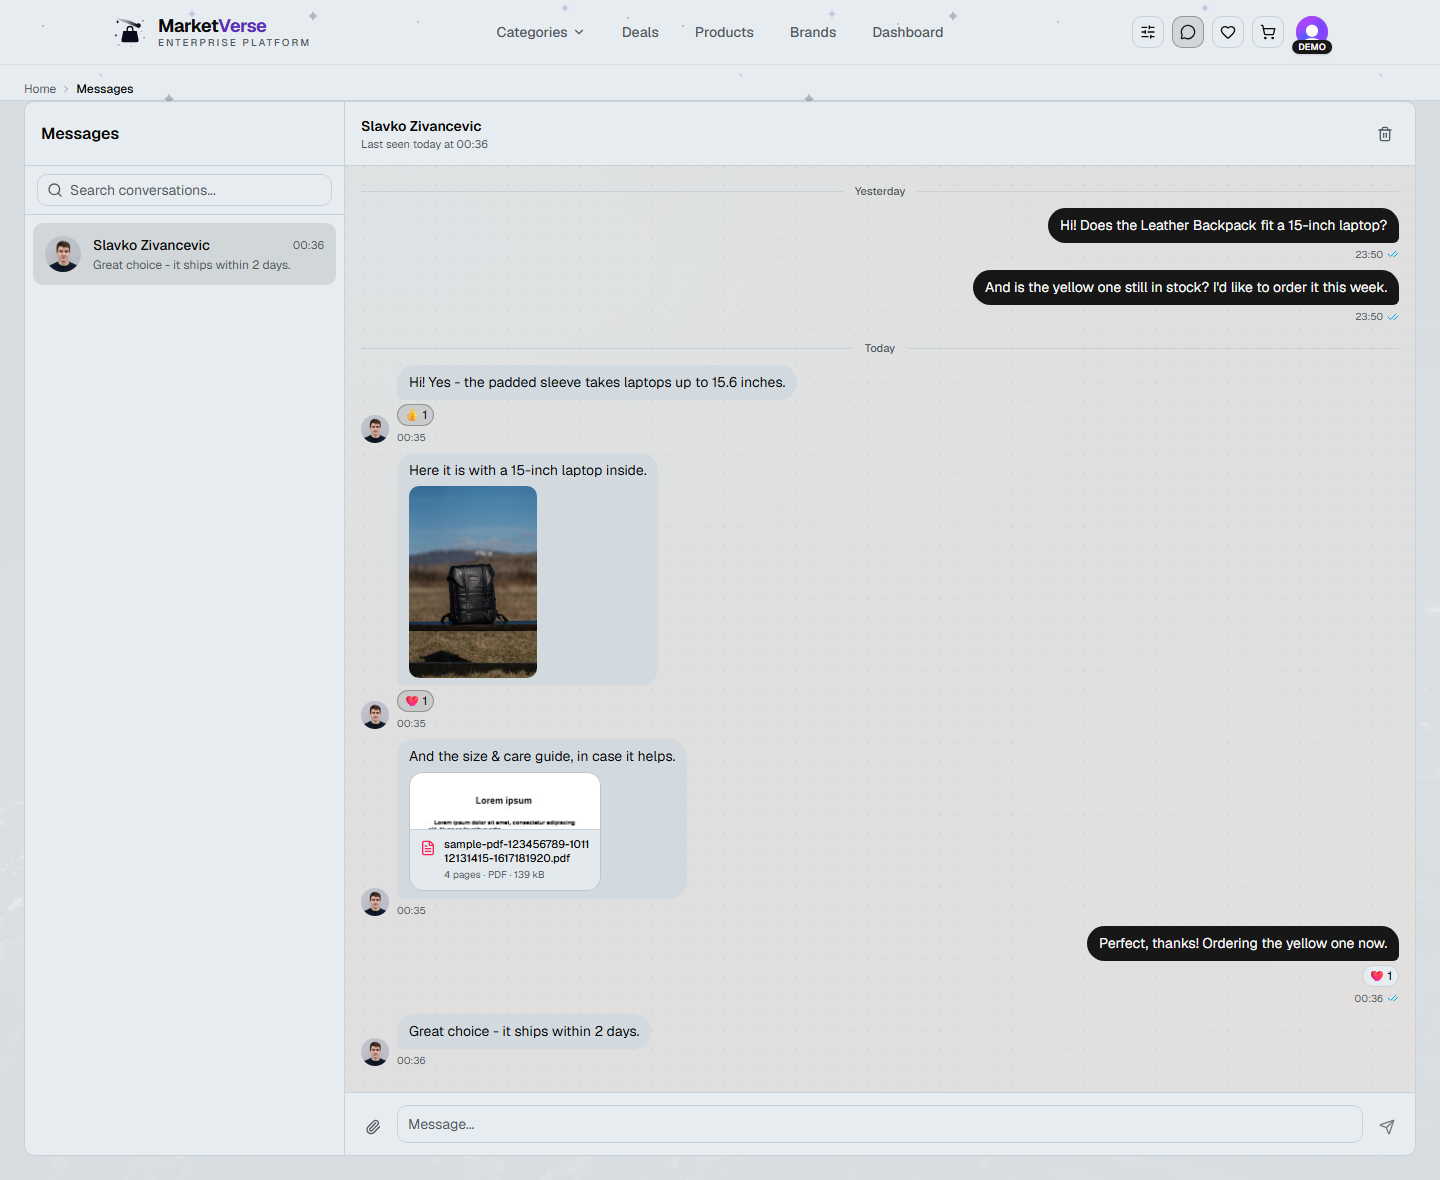
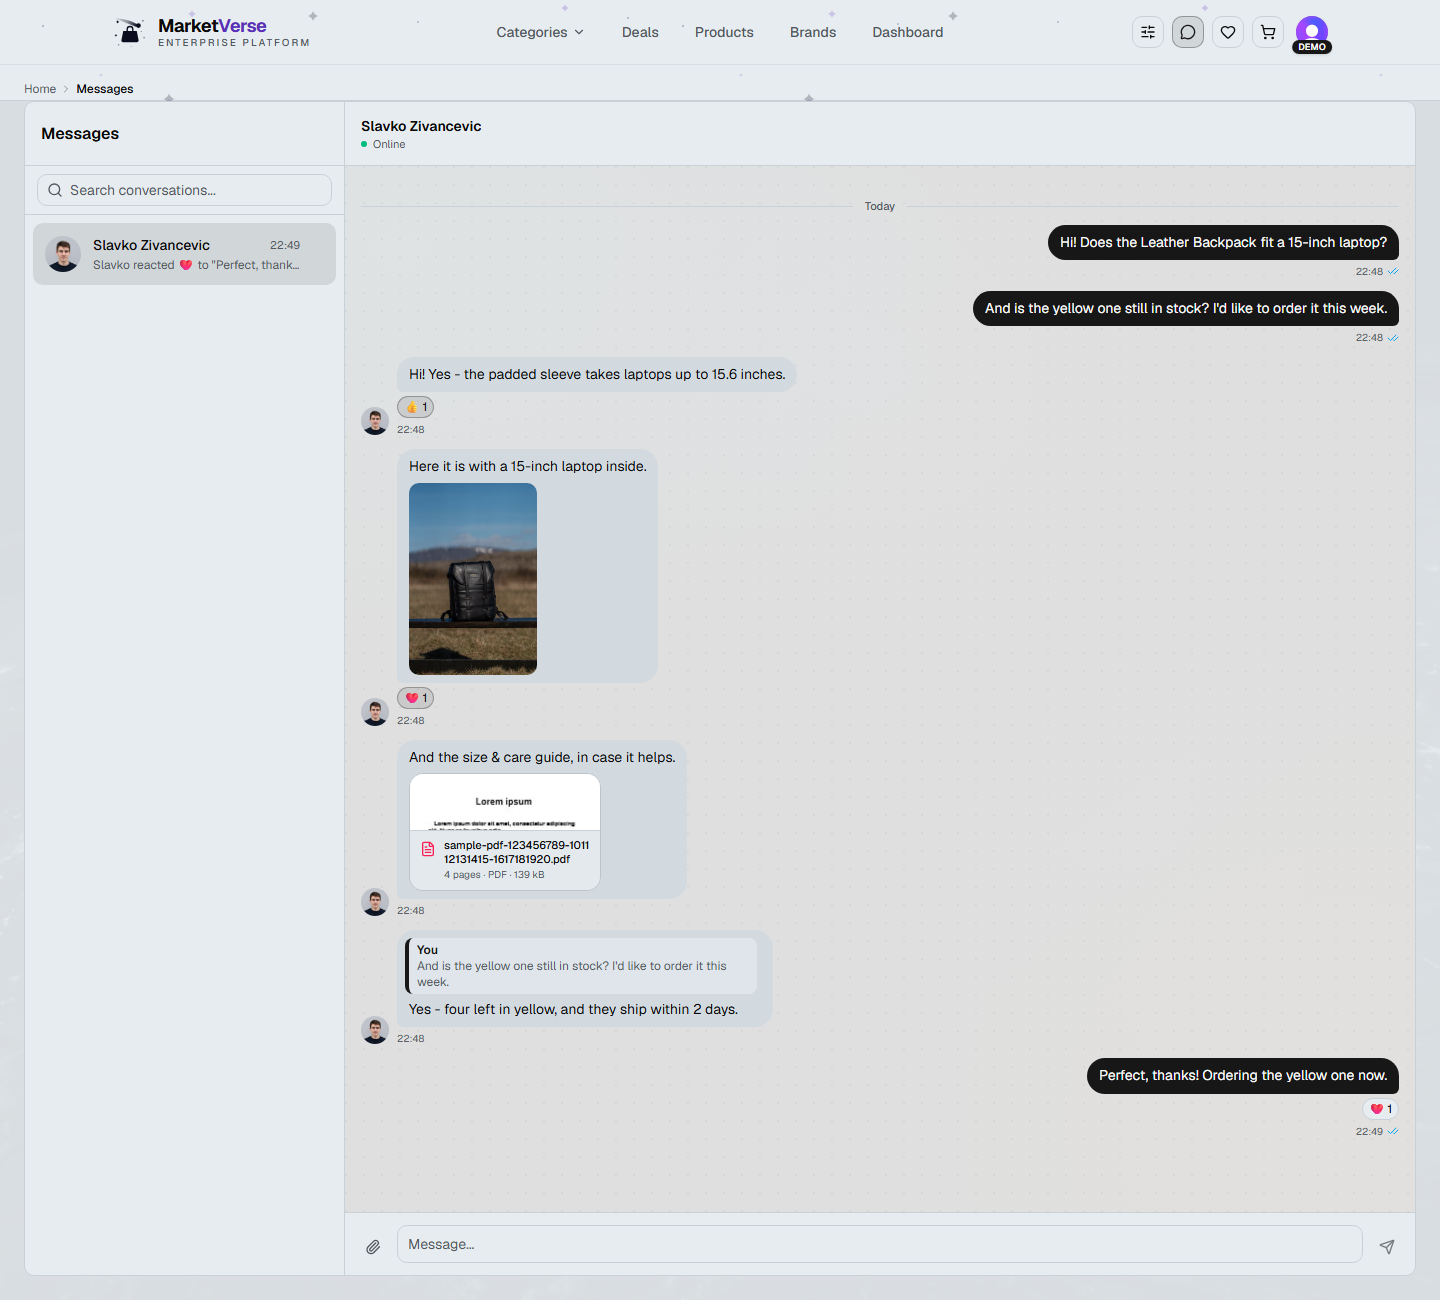
show a quoted reply in the inbox screenshot

diff --git a/index.html b/index.html
@@ -222,7 +222,7 @@
         </div>
         <figure class="shot">
           <img src="screenshots/04-chat.png" alt="Full-page inbox - a buyer and a seller talking about a product" loading="lazy" />
-          <figcaption>Full-page inbox at /messages - image and PDF attachments, reactions, read receipts, last seen</figcaption>
+          <figcaption>Full-page inbox at /messages - a reply quoting the buyer's question, image and PDF attachments, reactions, read receipts, presence</figcaption>
         </figure>
       </section>
 
